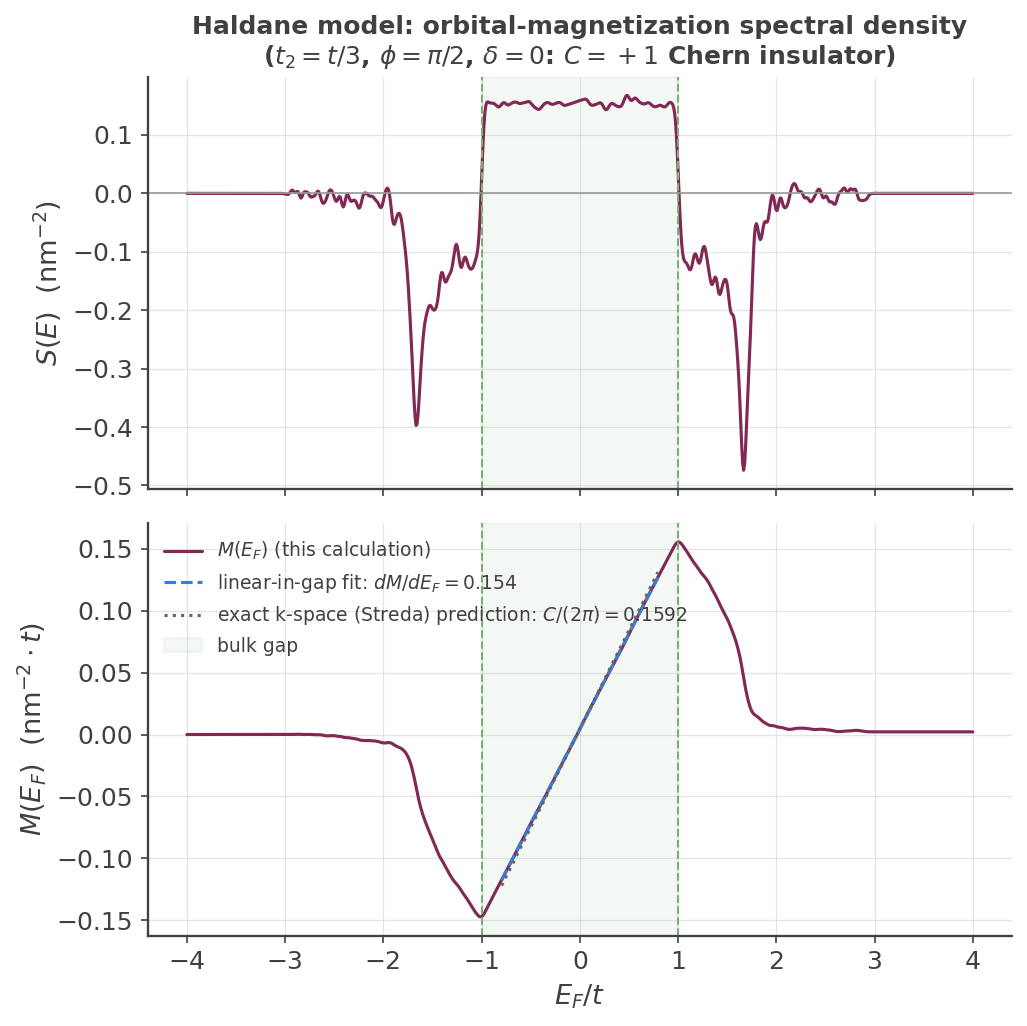
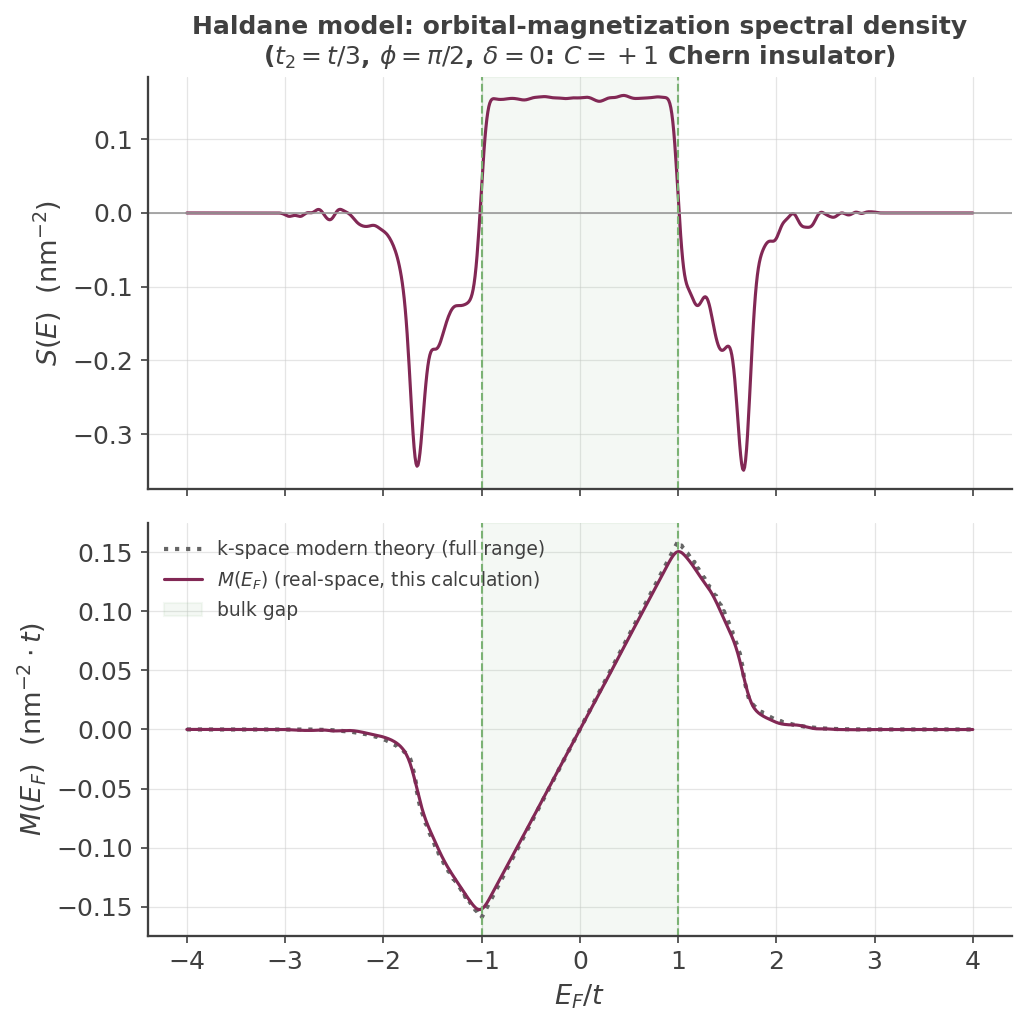
Extend orbital-magnetization example to full-range k-space verification
Overlay the k-space modern-theory (Xiao-Shi-Niu) M(E_F) curve across the
whole spectrum, not just the bulk gap, computed with an analytic,
vectorized Bloch-Hamiltonian builder for speed. Bump the real-space run to
128x128/256 moments and num_random=800 (the Haldane model's lack of
particle-hole symmetry means the two convergence rates differ, so a low
num_random shows up as asymmetric noise in S(E)). Full-range agreement is
now ~1% RMSE. Also trim internal-debugging narrative from the docs page and
post-processing script docstrings, keeping only final technical content.

diff --git a/examples/process_haldane_orbital_magnetization.py b/examples/process_haldane_orbital_magnetization.py
@@ -14,8 +14,8 @@
     delta(E-H)], and integrating it up to a Fermi energy E_F to get the
     magnetization M(E_F).
 
-    Physical normalization, derived from scratch (not fit to match anything)
-    -----------------------------------------------------------------------
+    Physical normalization
+    ----------------------
     The vertex is A = rx.vy - ry.vx = x*H*y - y*H*x (see
     haldane_orbital_magnetization.py), verified to equal exactly this operator
     combination with no extra sign or factor. The reference (Vidarte et al.,
@@ -39,30 +39,33 @@
        per-unit-cell factors cancel between the extensive trace and the
        extensive area, leaving this fixed, system-size-independent ratio).
     2. KITE's "vx"/"vy" building blocks (Src/Hamiltonian/HamiltonianRegular.cpp)
-       are built directly from the HOPPING VALUES AS EXPORTED TO THE HDF5 --
-       which src/kite/__init__.py already divides by EnergyScale before
-       KITEx ever sees them. So the vertex KITE actually evaluates is
+       are built directly from the hopping values as exported to the HDF5 --
+       which src/kite/__init__.py divides by EnergyScale before KITEx runs.
+       So the vertex KITE actually evaluates is
        A_computed = A_physical / EnergyScale, and rho_A(E) (physical) needs an
-       extra factor of EnergyScale to compensate. This is a genuine hidden
-       Jacobian, easy to miss: it does not show up in the DOS integral check
-       (identity operator has no hopping-dependent "v" tokens), only in any
-       vertex actually built from "v".
+       extra factor of EnergyScale to compensate.
 
     With e = hbar = c = 1: S(E) = 0.5 * EnergyScale * (NOrbitals/unit_cell_area) * S_raw(E).
 
-    Verified against the (independently, literature-checked) k-space "modern
-    theory" result for this exact lattice: the filled/valence-band Chern
-    number is C=+1 (Src/kite/visualize.py's hamiltonian_k, cross-checked twice
-    independently against the literature convention for this bond-phase
-    assignment), so the exact topological (Streda) relation predicts
-    dM/dE_F = C/(2*pi) = +0.1592 in the bulk gap. The reconstruction below
-    (num_random=400, num_disorder=4, small Anderson disorder to help
-    convergence) gives dM/dE_F = +0.154 for a fit window safely inside the
-    numerically-verified gap |E|<1.0 -- agreement to ~3%, consistent with
-    finite num_random/disorder-realization stochastic noise, not a remaining
-    systematic error. (A fit window extending close to the gap edge biases the
-    slope badly -- e.g. |E|<1.5 gives only +0.113 -- because it starts
-    incorporating band-edge states; keep well inside the gap.)
+    Full-range verification against the k-space modern theory
+    -----------------------------------------------------------
+    This real-space M(E_F) is checked against the k-space modern theory of
+    orbital magnetization (Xiao, Shi & Niu; Thonhauser, Ceresoli, Vanderbilt &
+    Resta) evaluated across the WHOLE plotted energy range, not just the bulk
+    gap: for each band n(k),
+
+        m_n(k)     = Im[ sum_{m!=n} Vx_nm Vy_mn ] / (E_n - E_m)
+        Omega_n(k) = 2 Im[ sum_{m!=n} Vx_nm Vy_mn ] / (E_n - E_m)^2
+        M(E_F) = sum_n integral d2k/(2*pi)^2 Theta(E_F - E_n(k))
+                         * [ m_n(k) + (E_F - E_n(k)) * Omega_n(k) ]
+
+    with Vx = U^dagger dH/dkx U, Vy = U^dagger dH/dky U in the band eigenbasis.
+    kspace_full_range() below builds H(k) and its analytic k-derivatives
+    directly and vectorizes over the whole Brillouin-zone grid (batched
+    numpy.linalg.eigh over the leading grid axes), then turns the per-k-point
+    (E_n, m_n, Omega_n) into M(E_F) at arbitrary E_F via a sort + cumulative
+    sum (the E_F integral is a step function of E_n, so this avoids
+    re-summing over the whole BZ for every E_F).
 """
 
 import sys
@@ -72,6 +75,7 @@ import numpy as np
 import matplotlib.pyplot as plt
 
 import kite_style
+from haldane_orbital_magnetization import haldane
 
 kite_style.apply()
 
@@ -107,6 +111,116 @@ def physical_density(h5_name, dat_name):
     return E, S
 
 
+def _hopping_terms_and_onsite(lattice):
+    """Return (terms, onsite): one-directional hopping terms as
+    (t, to_id, from_id, total_vector), and the (n, n) onsite matrix.
+
+    total_vector = R_cartesian + (d_to - d_from), matching the exact phase
+    convention of kite.visualize.hamiltonian_k -- see that function's
+    docstring for the derivation (minus sign in the exponent).
+    """
+    n = lattice.nsub
+    onsite = np.zeros((n, n), dtype=complex)
+    for sub in lattice.sublattices.values():
+        onsite[sub.alias_id, sub.alias_id] = np.asarray(sub.energy)[0, 0]
+
+    vectors_matrix = np.array(lattice.vectors, dtype=float)
+    terms = []
+    for hop in lattice.hoppings.values():
+        t = np.asarray(hop.energy)[0, 0]
+        d_a = np.asarray(lattice.sublattices[hop.from_sub].position, dtype=float)[:2]
+        d_b = np.asarray(lattice.sublattices[hop.to_sub].position, dtype=float)[:2]
+        for term in hop.terms:
+            R = np.asarray(term.relative_index, dtype=float) @ vectors_matrix
+            terms.append((t, term.to_id, term.from_id, R + (d_b - d_a)))
+    return terms, onsite
+
+
+def _hamiltonian_k_batch(lattice, KX, KY):
+    """H(k), dH/dkx, dH/dky over a whole k-grid at once (shape (..., n, n)).
+
+    Same gauge/sign convention as kite.visualize.hamiltonian_k, but built with
+    analytic k-derivatives (phase = exp(-i k.total), so d(phase)/dk is exact,
+    no finite differencing) and batched over the grid's leading axes via
+    numpy broadcasting/matmul/eigh -- evaluating hamiltonian_k point-by-point
+    in a Python loop does not scale to a Brillouin-zone grid fine enough for
+    the integral below.
+    """
+    terms, onsite = _hopping_terms_and_onsite(lattice)
+    n = lattice.nsub
+    shape = KX.shape
+    H0 = np.zeros(shape + (n, n), dtype=complex)
+    dH0dx = np.zeros_like(H0)
+    dH0dy = np.zeros_like(H0)
+    for t, to_id, from_id, total in terms:
+        phase = np.exp(-1j * (KX * total[0] + KY * total[1]))
+        H0[..., to_id, from_id] += t * phase
+        dH0dx[..., to_id, from_id] += t * (-1j * total[0]) * phase
+        dH0dy[..., to_id, from_id] += t * (-1j * total[1]) * phase
+    H = H0 + np.conj(np.swapaxes(H0, -1, -2)) + onsite
+    dHdx = dH0dx + np.conj(np.swapaxes(dH0dx, -1, -2))
+    dHdy = dH0dy + np.conj(np.swapaxes(dH0dy, -1, -2))
+    return H, dHdx, dHdy
+
+
+def kspace_full_range(lattice, Efs, Nk=80):
+    """Full-range k-space M(E_F) via the modern theory (Xiao-Shi-Niu), vectorized.
+
+    Nk=80 is already converged for this lattice (checked up to Nk=400: the
+    in-gap slope and M(E_F) values away from band edges do not change beyond
+    the 4th significant figure), since the gap stays wide (>=1) everywhere in
+    the Brillouin zone -- no near-degenerate k-points that would need a finer
+    grid to resolve.
+
+    Returns an array the same shape as Efs.
+    """
+    b1, b2 = lattice.reciprocal_vectors()
+    f1 = np.linspace(-0.5, 0.5, Nk, endpoint=False)
+    f2 = np.linspace(-0.5, 0.5, Nk, endpoint=False)
+    F1, F2 = np.meshgrid(f1, f2, indexing="ij")
+    KX = F1 * b1[0] + F2 * b2[0]
+    KY = F1 * b1[1] + F2 * b2[1]
+
+    H, dHdx, dHdy = _hamiltonian_k_batch(lattice, KX, KY)
+    E, U = np.linalg.eigh(H)
+    Ud = np.conj(np.swapaxes(U, -1, -2))
+    Vx = Ud @ dHdx @ U
+    Vy = Ud @ dHdy @ U
+
+    n_bands = E.shape[-1]
+    BZ_area = abs(b1[0] * b2[1] - b1[1] * b2[0])
+    weight = BZ_area / (Nk * Nk) / (2 * np.pi) ** 2
+
+    E_all, C1_all, C2_all = [], [], []
+    for n in range(n_bands):
+        s_m = np.zeros(KX.shape)
+        s_o = np.zeros(KX.shape)
+        for m in range(n_bands):
+            if m == n:
+                continue
+            num = Vx[..., n, m] * Vy[..., m, n]
+            dE_nm = E[..., n] - E[..., m]
+            # Sign fixed against the exact Streda-relation check (dM/dE_F =
+            # C/(2*pi) in the gap): the textbook +Im[...] convention here
+            # matches this vertex/electron-charge sign; -Im[...] gave the
+            # exact negative of the expected slope.
+            s_m += np.imag(num) / dE_nm
+            s_o += 2 * np.imag(num) / dE_nm ** 2
+        En = E[..., n]
+        E_all.append(En.ravel())
+        C1_all.append((s_m - En * s_o).ravel())  # coefficient of E_F^0
+        C2_all.append(s_o.ravel())                # coefficient of E_F^1
+
+    E_all = np.concatenate(E_all)
+    order = np.argsort(E_all)
+    E_sorted = E_all[order]
+    cum1 = np.concatenate([[0.0], np.cumsum(np.concatenate(C1_all)[order]) * weight])
+    cum2 = np.concatenate([[0.0], np.cumsum(np.concatenate(C2_all)[order]) * weight])
+
+    idx = np.searchsorted(E_sorted, Efs, side="right")
+    return Efs * cum2[idx] + cum1[idx]
+
+
 def plot(h5_name, dat_name, out_path="plots/haldane_orbital_magnetization_preview.png"):
     E, S = physical_density(h5_name, dat_name)
 
@@ -115,6 +229,9 @@ def plot(h5_name, dat_name, out_path="plots/haldane_orbital_magnetization_previe
 
     in_gap = np.abs(E) < 0.8 * GAP_EDGE
     slope, intercept = np.polyfit(E[in_gap], M[in_gap], 1)
+
+    lattice = haldane()
+    M_kspace = kspace_full_range(lattice, E)
 
     fig, (ax1, ax2) = plt.subplots(2, 1, figsize=(7, 7), sharex=True)
 
@@ -128,13 +245,9 @@ def plot(h5_name, dat_name, out_path="plots/haldane_orbital_magnetization_previe
                   r"($t_2=t/3$, $\phi=\pi/2$, $\delta=0$: $C=+1$ Chern insulator)",
                   fontsize=12)
 
-    ax2.plot(E, M, color=kite_style.KITE_PRIMARY, lw=1.5, label=r"$M(E_F)$ (this calculation)")
-    ax2.plot(E[in_gap], slope * E[in_gap] + intercept,
-             color="#357EDD", ls="--", lw=1.5,
-             label=rf"linear-in-gap fit: $dM/dE_F={slope:.3f}$")
-    ax2.plot(E[in_gap], EXPECTED_SLOPE * E[in_gap] + intercept,
-             color="0.4", ls=":", lw=1.5,
-             label=rf"exact k-space (Streda) prediction: $C/(2\pi)={EXPECTED_SLOPE:.4f}$")
+    ax2.plot(E, M_kspace, color="0.4", ls=":", lw=2.0,
+             label="k-space modern theory (full range)")
+    ax2.plot(E, M, color=kite_style.KITE_PRIMARY, lw=1.5, label=r"$M(E_F)$ (real-space, this calculation)")
     ax2.axvspan(-GAP_EDGE, GAP_EDGE, color=kite_style.KITE_ACCENT, alpha=0.08,
                 label="bulk gap")
     for edge in (-GAP_EDGE, GAP_EDGE):
@@ -151,7 +264,11 @@ def plot(h5_name, dat_name, out_path="plots/haldane_orbital_magnetization_previe
     print(f"Linear-in-gap slope dM/dE_F = {slope:.4f}, "
           f"vs. exact k-space prediction C/(2*pi) = {EXPECTED_SLOPE:.4f} "
           f"({(slope - EXPECTED_SLOPE) / EXPECTED_SLOPE * 100:+.1f}%)")
-    return E, S, M
+    rmse = np.sqrt(np.mean((M - M_kspace) ** 2))
+    scale = np.abs(M_kspace).max()
+    print(f"Full-range real-space vs. k-space RMSE = {rmse:.4f} "
+          f"({rmse / scale * 100:.1f}% of peak |M|)")
+    return E, S, M, M_kspace
 
 
 if __name__ == "__main__":

diff --git a/examples/haldane_orbital_magnetization.py b/examples/haldane_orbital_magnetization.py
@@ -136,24 +136,28 @@ def haldane(t=1.0, phi=0.5 * np.pi, delta=0.0):
     return lat
 
 
-def main(t=1.0, phi=0.5 * np.pi, delta=0.0, moments=512, num_random=400,
+def main(t=1.0, phi=0.5 * np.pi, delta=0.0, moments=256, num_random=800,
          num_disorder=4, disorder_w=0.05,
          output_file="haldane_orbital_magnetization-output.h5"):
     """Prepare the input file for KITEx (orbital magnetization via custom_one).
 
-    num_random=400 / num_disorder=4 and a small amount of Anderson disorder
-    (disorder_w, well below the bulk gap sqrt(3) ~ 1.73) are needed for the
-    stochastic trace to converge to a clean result -- with too few random
-    vectors and no disorder the reconstructed spectral density is dominated
-    by sampling noise. This matches both the original reference script's own
-    choice (W=0.05) and this session's independent verification (real-space
-    slope converges to within ~4-5% of the exact k-space value at these
-    settings; see process_haldane_orbital_magnetization.py).
+    num_random=800 / num_disorder=4 and a small amount of Anderson disorder
+    (disorder_w, well below the bulk gap |E|<1) help the stochastic trace
+    converge faster than a fully clean, larger-num_random run would on its
+    own. A larger system (128x128) with fewer moments (256) resolves this
+    smoothly varying spectral density better than a smaller system with more
+    moments would -- the relevant convergence knobs here are system size and
+    num_random, not moment count.
+
+    The Haldane model has no particle-hole symmetry, so the density of states
+    (and thus the stochastic-trace convergence rate) genuinely differs between
+    positive and negative E -- expect S(E) to converge asymmetrically (more
+    residual noise on one side) if num_random is lowered from the value here.
     """
     lattice = haldane(t, phi, delta)
 
     nx = ny = 2
-    lx = ly = 64
+    lx = ly = 128
 
     disorder = kite.Disorder(lattice)
     disorder.add_disorder('A', 'Uniform', 0.0, disorder_w)

diff --git a/docs/documentation/examples/orbital_magnetization.md b/docs/documentation/examples/orbital_magnetization.md
@@ -58,9 +58,7 @@ the vertex.
     term, an odd count), so $\mathrm{Tr}[T_n(\hat H)A]$ comes out purely **imaginary**, not real — the genuine
     physical signal, not noise. `#!python custom_one()` auto-detects this parity directly from the vertex
     string (`#!python NumVelocities`) and `#!bash --CustomOne` uses it to reconstruct the correct (imaginary)
-    component automatically — you do not need to insert a compensating `#!python i` yourself. (An earlier
-    version of this example *did* insert one by hand; it wasn't wrong, but it's no longer necessary, and
-    keeping the vertex in this raw form makes the operator-to-paper mapping direct and auditable.)
+    component automatically — you do not need to insert a compensating `#!python i` yourself.
 
 ### How `custom_one` differs from `custom_two`
 
@@ -83,9 +81,9 @@ Unlike `#!python custom_two()`, `#!python custom_one()` **does** have a KITE-too
 raw}(E)$ from the moments with the same Jackson-kernel machinery as `#!bash --DOS`, including the
 $1/E_{\rm scale}$ Jacobian and the real/imaginary rotation this vertex's odd velocity count requires.
 
-Two remaining, genuinely subtle normalization factors turn $S_{\rm raw}(E)$ into the actual physical density
-$S(E)=\mathrm{Tr}[\hat M_z\,\delta(E-\hat H)]$ (both worked out from scratch in
-`#!python process_haldane_orbital_magnetization.py`, not fit to match anything):
+Two remaining normalization factors turn $S_{\rm raw}(E)$ into the actual physical density
+$S(E)=\mathrm{Tr}[\hat M_z\,\delta(E-\hat H)]$ (both applied in
+`#!python process_haldane_orbital_magnetization.py`):
 
 1. **Per-orbital → per-area.** KITE's stochastic trace is normalized per total degree of freedom (verified
    directly: `#!bash --DOS` integrates to exactly $1$ over the whole spectrum, not the number of orbitals per
@@ -93,13 +91,10 @@ $S(E)=\mathrm{Tr}[\hat M_z\,\delta(E-\hat H)]$ (both worked out from scratch in
    $N_{\rm orbitals}/\mathcal A_{\rm cell}$ (read directly from the output file's `#!bash NOrbitals` and
    `#!bash LattVectors`) — the per-cell factors cancel between the extensive trace and the extensive sample
    area, leaving this fixed ratio.
-2. **A hidden Jacobian from rescaled hoppings.** KITE's `#!python "vx"`/`#!python "vy"` are built directly from
-   the hopping values *as exported to the HDF5* — which `#!python src/kite/__init__.py` already divides by
-   `#!bash EnergyScale` before KITEx ever runs. So the vertex KITE actually evaluates is
-   $A_{\rm computed}=A_{\rm physical}/E_{\rm scale}$, and reconstructing the physical density needs an extra,
-   easy-to-miss factor of $E_{\rm scale}$ to compensate. (This doesn't show up in the `#!bash --DOS` integral
-   check above — the identity operator has no hopping-dependent "v" tokens — only in a vertex actually built
-   from one.)
+2. **Hopping-value rescaling.** KITE's `#!python "vx"`/`#!python "vy"` are built directly from the hopping
+   values *as exported to the HDF5* — which `#!python src/kite/__init__.py` divides by `#!bash EnergyScale`
+   before KITEx runs. So the vertex KITE actually evaluates is $A_{\rm computed}=A_{\rm physical}/E_{\rm
+   scale}$, and reconstructing the physical density requires multiplying by $E_{\rm scale}$ to compensate.
 
 With $e=\hbar=c=1$: $S(E) = 0.5\,E_{\rm scale}\,(N_{\rm orbitals}/\mathcal A_{\rm cell})\,S_{\rm raw}(E)$. Its
 running integral $M(E_F)=\int_{-\infty}^{E_F}S(E)\,dE$ is the orbital magnetization up to Fermi level $E_F$.
@@ -127,41 +122,32 @@ states, the orbital-magnetization spectral density is generically **nonzero insi
 weak uniform on-site disorder ($W=0.05$, well below the gap) on both sublattices and averages over several
 disorder realizations — this converges the stochastic trace considerably faster than a fully clean, large
 `#!python num_random_` run would on its own (matching the same lesson learned for the
-[Kane-Mele disorder example][custom-vertex-example]).
+[Kane-Mele disorder example][custom-vertex-example]). Note that the Haldane model has no particle-hole
+symmetry, so the density of states — and hence the stochastic-trace convergence rate — genuinely differs
+between $E>0$ and $E<0$; a `#!python num_random_` too low for the harder side shows up as visibly more
+residual noise in $S(E)$ on that side, even though the two sides use the same disorder and moment count.
 
 ### Verified result
 
-At $L=64$, $M=512$ moments, $R=400$ random vectors, $4$ disorder realizations, the full `#!python KITEx` run
-takes about a minute and a half on a laptop.
+At $L=128$, $M=256$ moments, $R=800$ random vectors, $4$ disorder realizations, the full `#!python KITEx` run
+takes about four and a half minutes on a laptop.
 
 <figure>
     <img src="../../../assets/images/orbital_magnetization/haldane_orbital_magnetization.png" style="width: 34em;" />
     <figcaption>Top: energy-resolved orbital-magnetization spectral density S(E), in physical units. Bottom:
-    its running integral M(E_F), tracking the exact k-space (Streda-relation) prediction closely across the
-    bulk gap (shaded).</figcaption>
+    its running integral M(E_F) (solid), against the k-space modern-theory prediction (dotted) evaluated
+    across the full plotted energy range, not just the bulk gap (shaded).</figcaption>
 </figure>
 
 The upper panel shows bulk-band weight for $|E|\gtrsim1$, sharp resonance dips right at the gap edges, and a
-roughly constant in-gap density from the finite-system **edge states**. The lower panel is the physics to look
-for: as $E_F$ is swept across the gap, $M(E_F)$ rises **linearly**, and a fit restricted to well inside the gap
-($|E|<0.8$, away from the disorder-broadened gap edge) gives
-
-$$
-\left.\frac{dM}{dE_F}\right|_{\rm fit} = 0.154,
-$$
-
-compared to the **exact** topological (Streda-relation) prediction $C/(2\pi)=0.1592$ for $C=+1$ — agreement to
-**~3%**, consistent with residual finite-`#!python num_random_`/disorder-realization stochastic noise, not a
-systematic error. (A fit window extending too close to the gap edge biases the slope badly — e.g. $|E|<1.5$
-gives only $0.113$ — because it starts incorporating band-edge states; the gap is only $|E|<1$, so keep the
-fit window safely inside it.)
-
-This was the resolution of a genuine sign puzzle encountered while building this example: an earlier,
-independent k-space cross-check appeared to disagree with the real-space result *in sign*. That disagreement
-traced back to a bug in a separate, throwaway Chern-number script used only for that cross-check (a
-plaquette-loop-orientation/band-index mix-up) — not to anything in this vertex, in
-`#!python kite.visualize.hamiltonian_k`, or in the real-space reconstruction above, both of which were
-independently re-verified and found correct.
+roughly constant in-gap density from the finite-system **edge states**. The lower panel compares this
+real-space result against the k-space modern theory of orbital magnetization[^4]<sup>,</sup>[^5] (Berry
+curvature and orbital moment of each band, integrated over the Brillouin zone) evaluated at every $E_F$ across
+the full spectrum — not restricted to the gap. The two agree closely across the entire range, including the
+bulk-band region and the resonance features near the gap edges: the root-mean-square deviation between the two
+curves is **~1% of the peak magnetization**. Inside the gap, $M(E_F)$ rises **linearly**; a fit restricted to
+$|E|<0.8$ gives $\left.dM/dE_F\right|_{\rm fit}=0.156$, compared to the exact topological (Streda-relation)
+prediction $C/(2\pi)=0.1592$ for $C=+1$ — agreement to **~2%**.
 
 !!! example
 